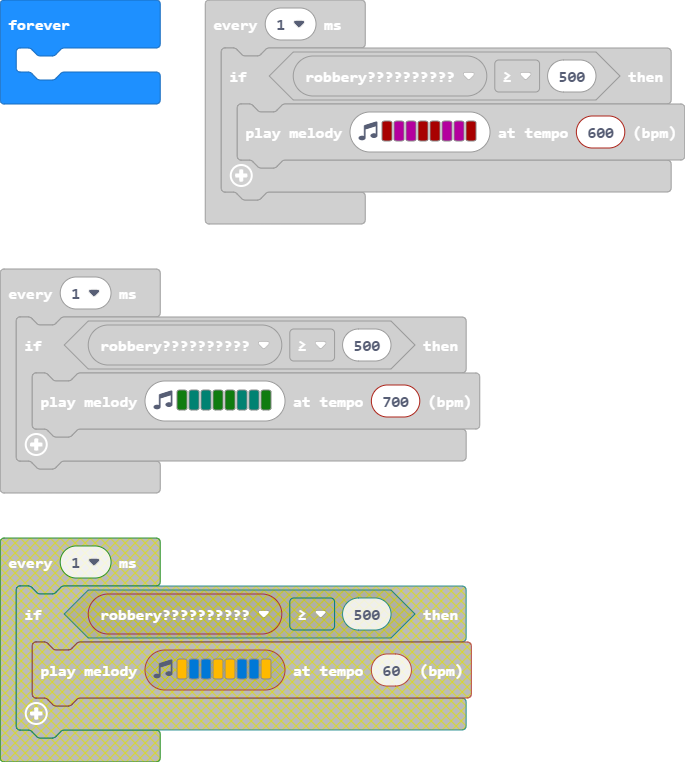
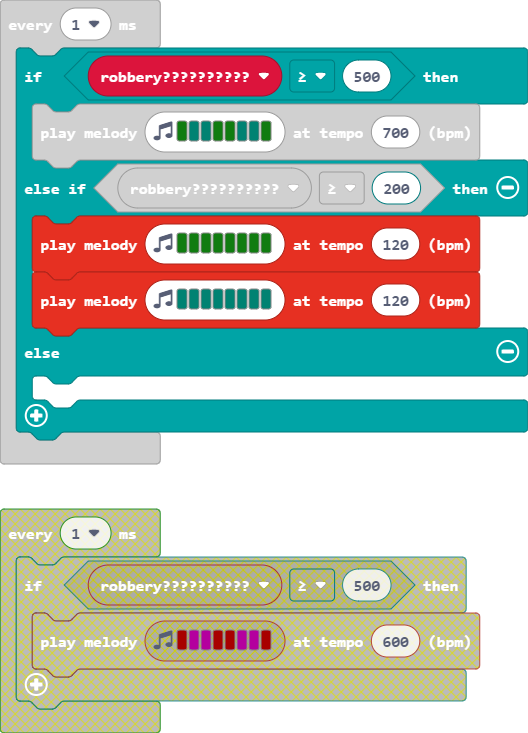
it is less painful and actualy senses stuff

diff --git a/main.ts b/main.ts
@@ -3,12 +3,12 @@ music.setVolume(255)
 basic.showString("ACTIVE")
 loops.everyInterval(1, function () {
     if (robbery >= 500) {
-        music.playMelody("C5 C C C5 C5 C C C5 ", 600)
-    }
-})
-loops.everyInterval(1, function () {
-    if (robbery >= 500) {
         music.playMelody("G F F G G F F G ", 700)
+    } else if (robbery >= 200) {
+        music.playMelody("G G G G G G G G ", 120)
+        music.playMelody("F F F F F F F F ", 120)
+    } else {
+    	
     }
 })
 basic.forever(function () {
